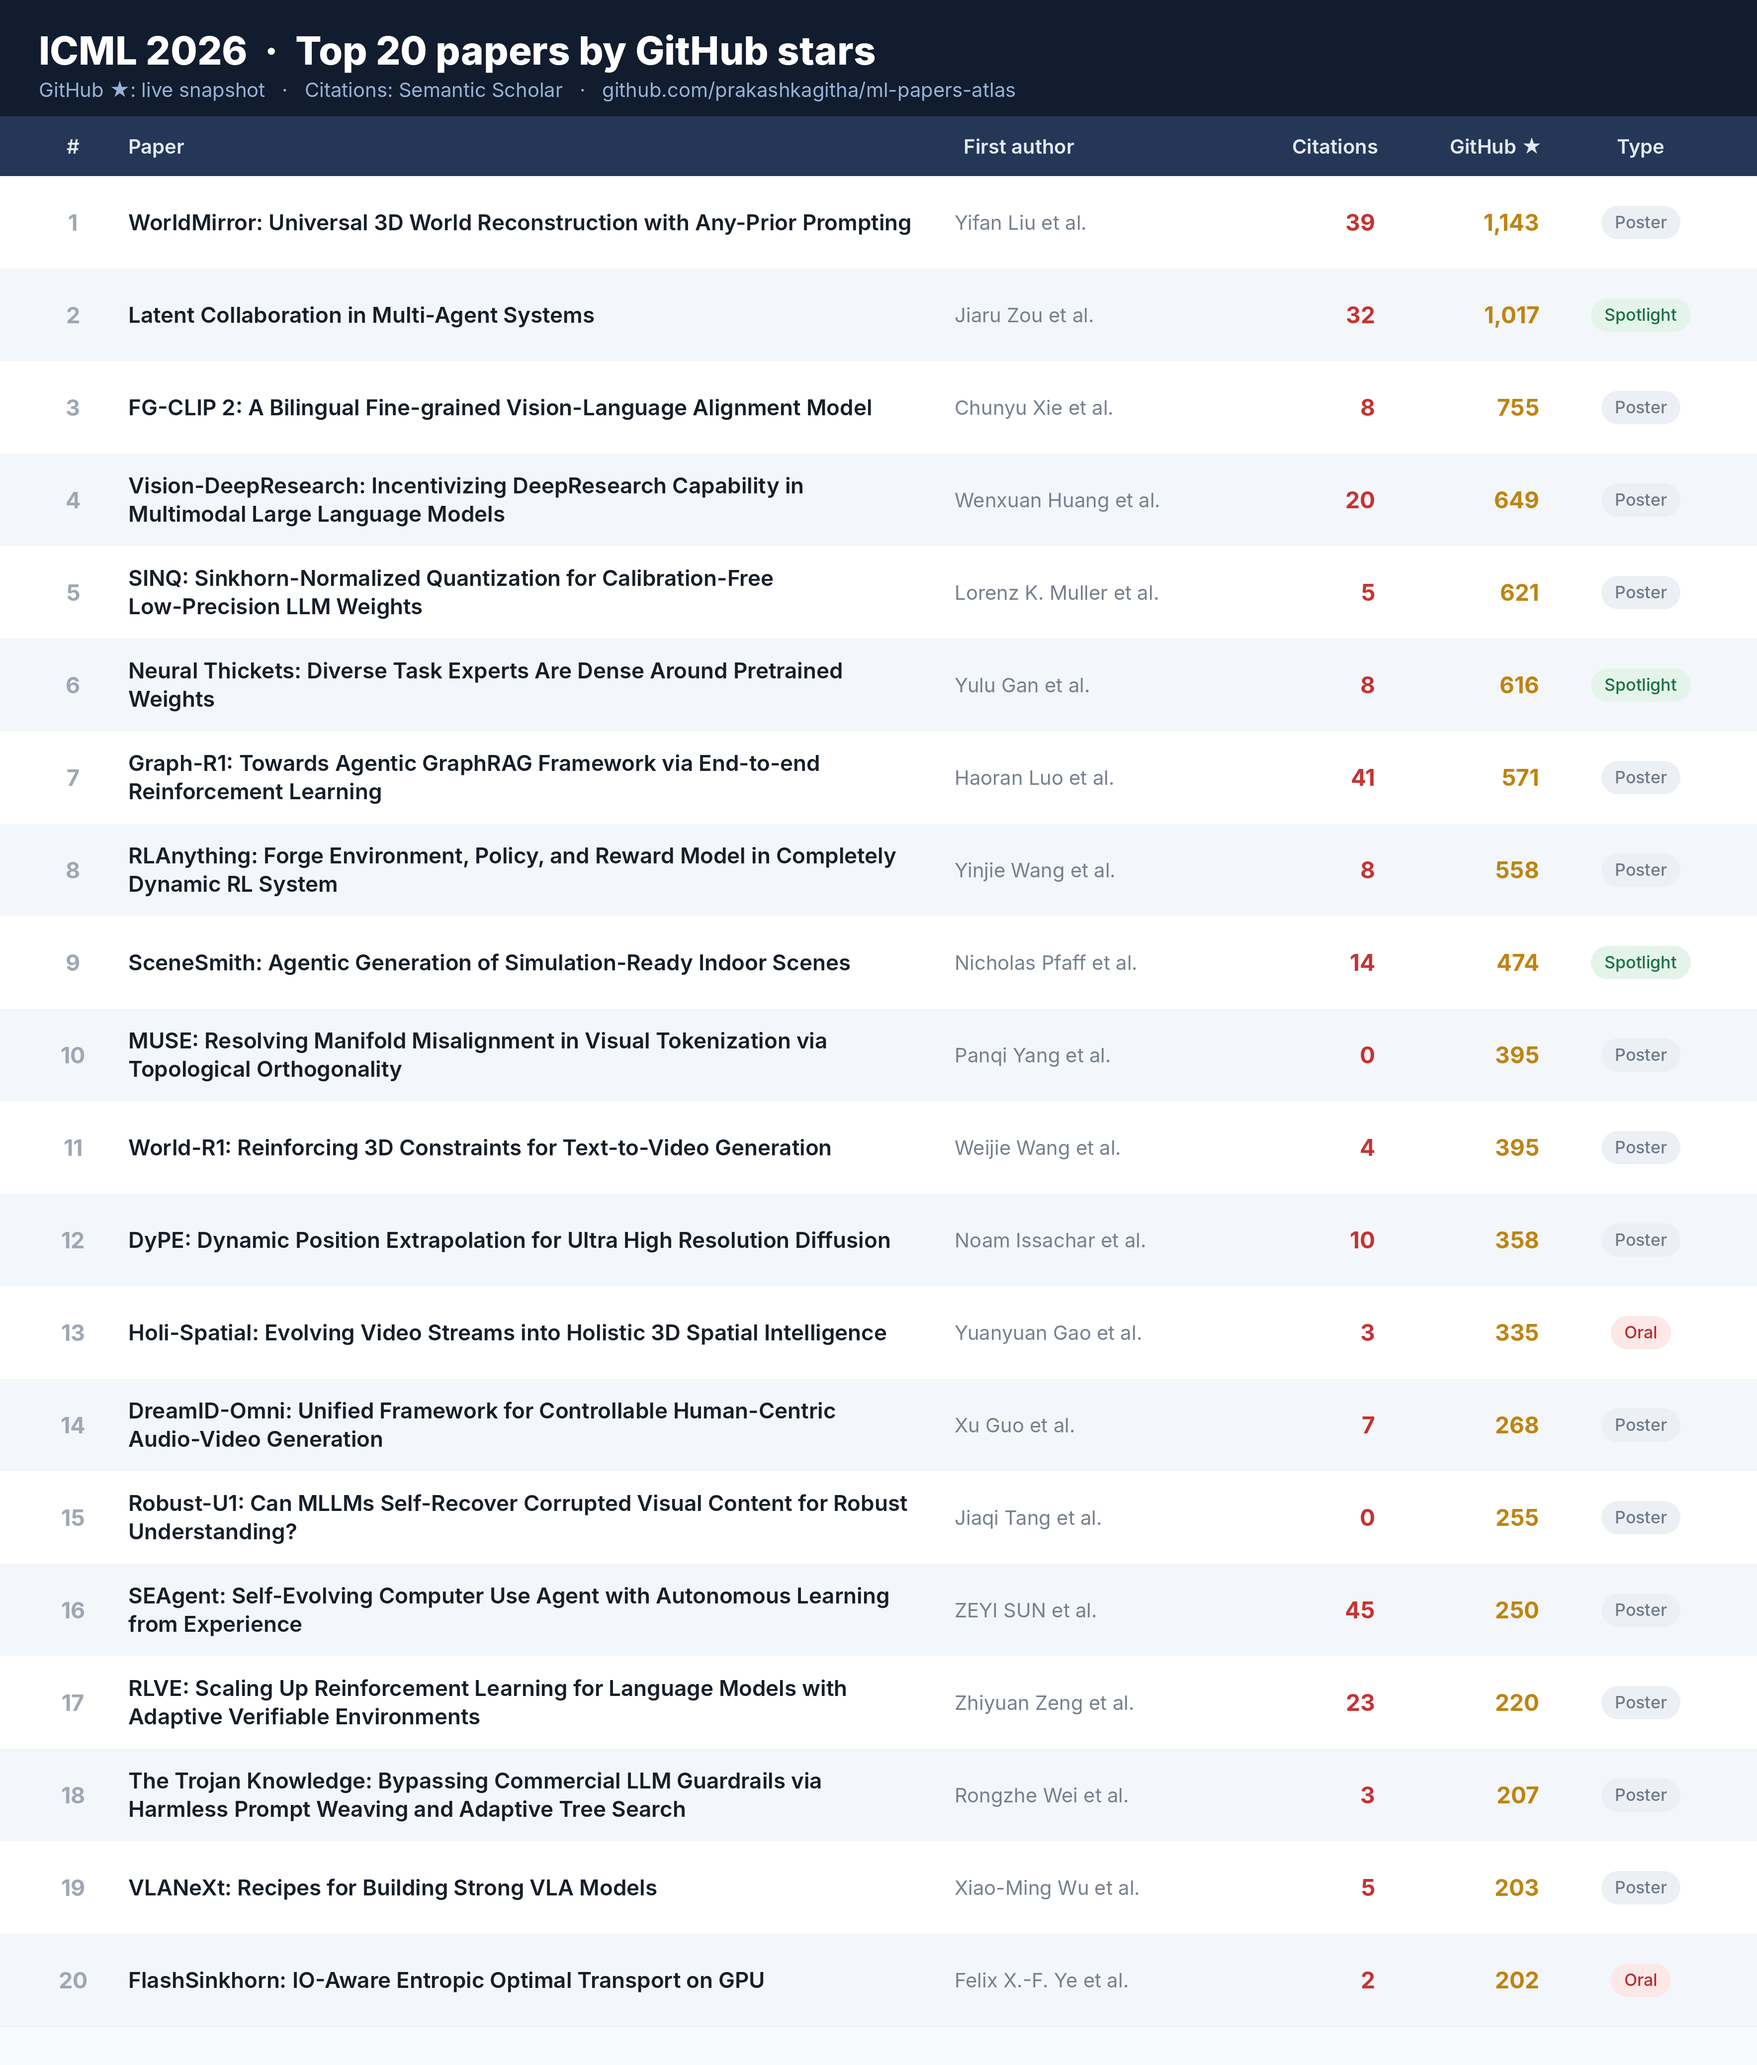
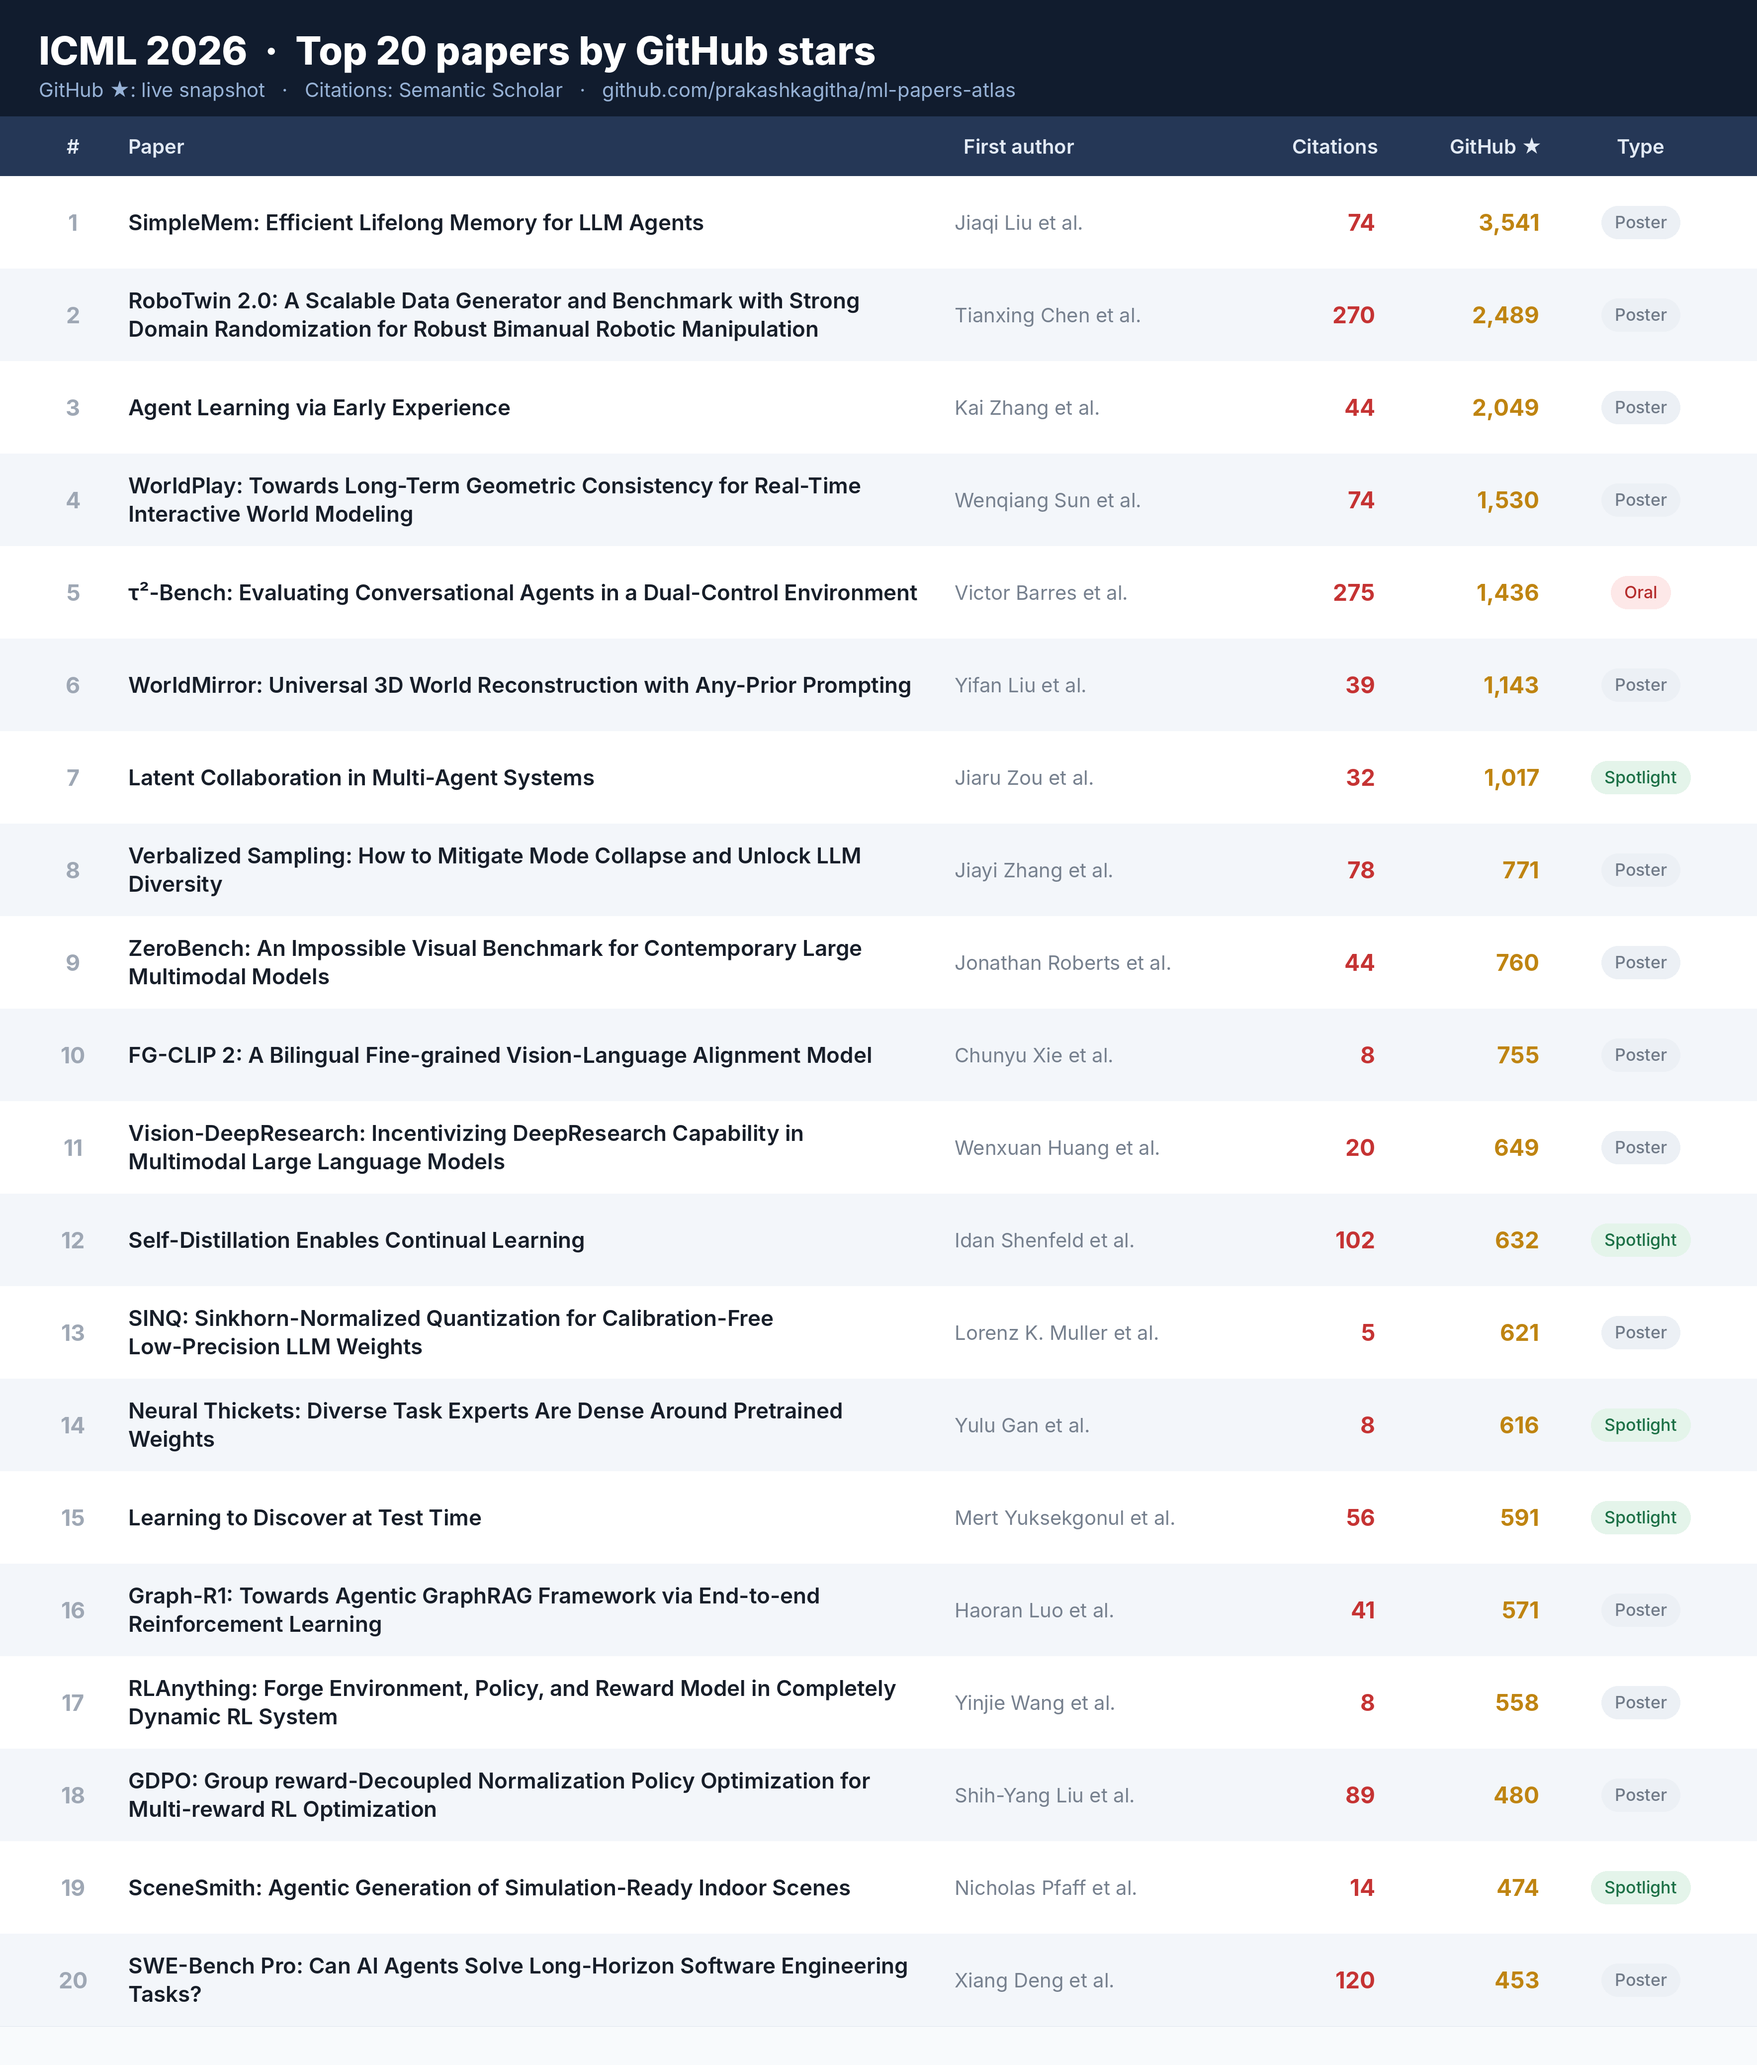
icml2026: fix top-20-by-stars to rank over all known repos
The stars table was built only from the "ICML 2026" keyword harvest, which
misses repos whose description never mentions ICML 2026 (tau2-bench, RoboTwin,
SimpleMem, verl-agent, ...). Rank over the union of that harvest and the
per-paper repos found during citation/author-post discovery instead. The top
of the stars list is now SimpleMem 3541, RoboTwin 2489, verl-agent 2049,
WorldPlay 1530, tau2-bench 1436, WorldMirror 1143.

diff --git a/icml2026/icml2026_make_tables.py b/icml2026/icml2026_make_tables.py
@@ -273,14 +273,16 @@ def main() -> None:
            "citations", "outputs/icml2026_top20_by_citations.png")
 
     # ----- list B: top 20 by GitHub stars (independent list) -----
+    # Rank over EVERY paper for which we have a repo + live star count — the
+    # union of the "ICML 2026" keyword harvest and the per-paper repos found
+    # during citation/author-post discovery. (The keyword harvest alone misses
+    # repos whose description never mentions "ICML 2026", e.g. tau2-bench,
+    # RoboTwin, SimpleMem.)
     star_rows = []
-    seen = set()
-    for r in csv.DictReader(Path("outputs/icml2026_top_papers_by_github_stars.csv").open(encoding="utf-8")):
-        oid = oid_of(r)
-        s = stars_for(oid)
-        if s is None or oid in seen or oid not in master:
+    for oid, full in oid_repo.items():
+        s = live.get(full)
+        if s is None or oid not in master:
             continue
-        seen.add(oid)
         star_rows.append((s, master[oid]))
     star_rows.sort(key=lambda t: t[0], reverse=True)
     rows_star = [row_of(i, m, s) for i, (s, m) in enumerate(star_rows[:20], 1)]
